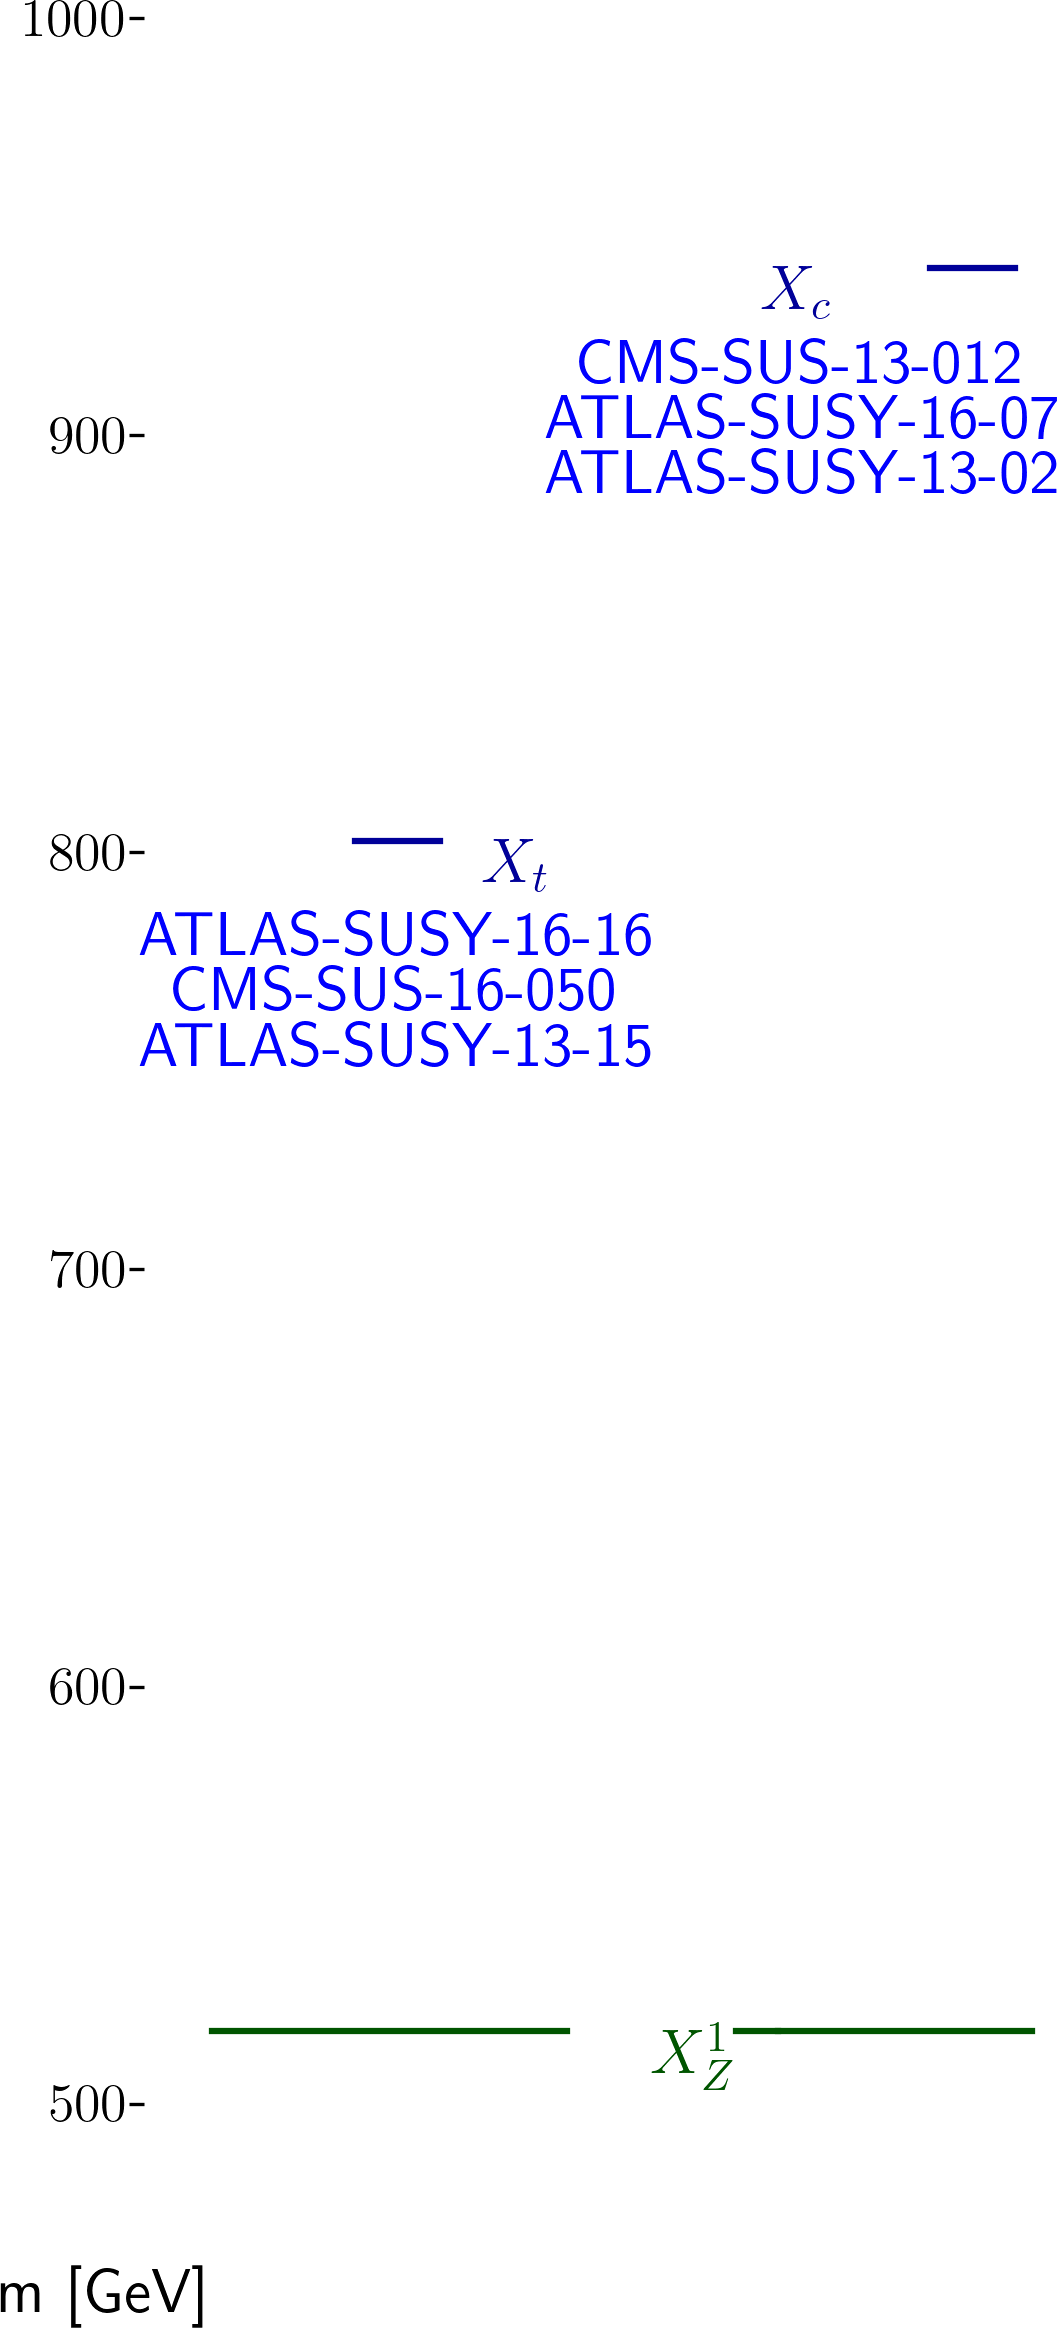
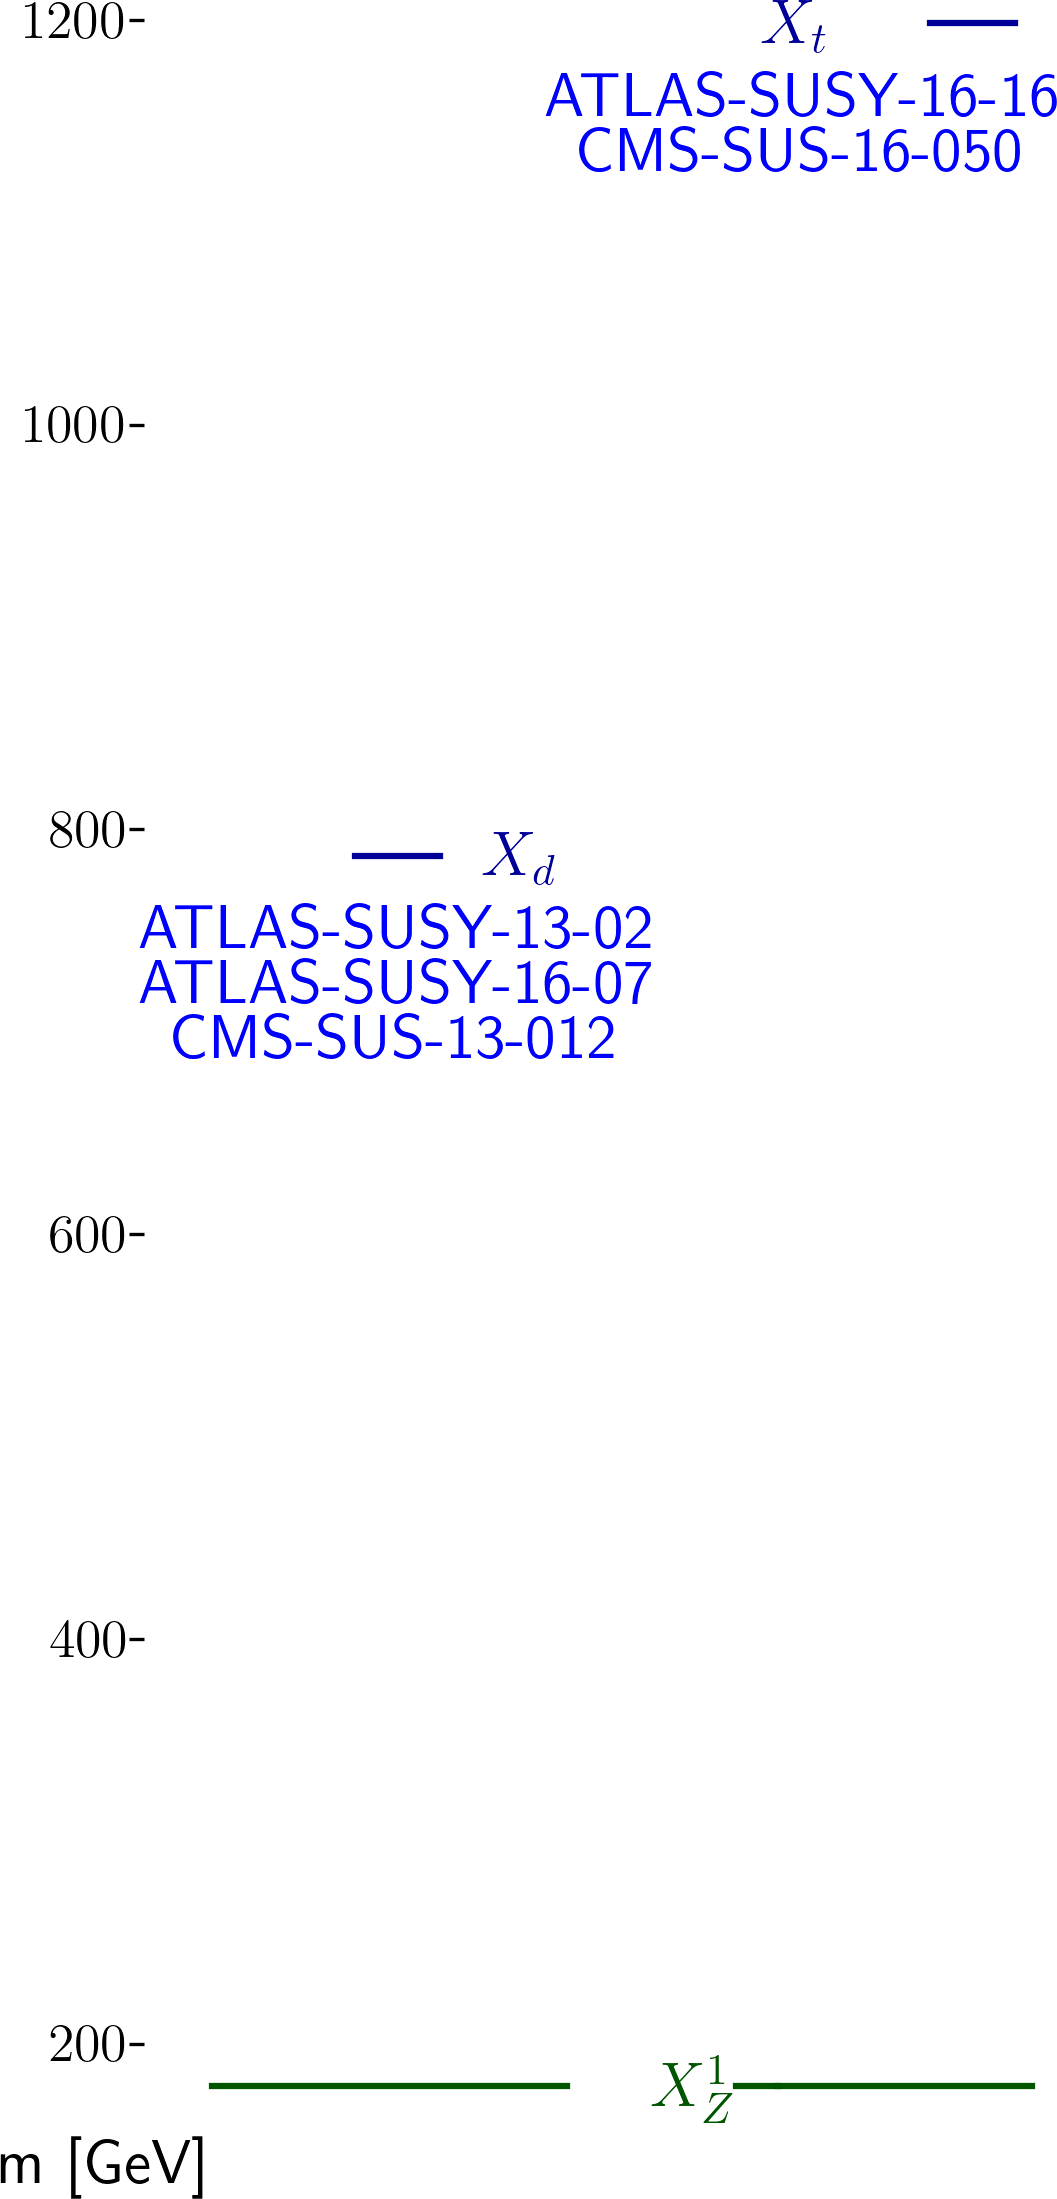
automated update by plotHiscore.py

diff --git a/protomodels/latest/index.html b/protomodels/latest/index.html
@@ -1,31 +1,30 @@
 <html>
 <body>
 <center>
-<table><td><h1>Current best protomodel: K=7.65</h1><td><img height=60px src=https://smodels.github.io/pics/banner.png></table>
+<table><td><h1>Current best protomodel: K=6.97</h1><td><img height=60px src=https://smodels.github.io/pics/banner.png></table>
 </center>
-<b><a href=./hiscore.slha>ProtoModel</a> <a href=./pmodel.py>(dict)</a> produced with <a href=https://smodels.github.io/docs/Validation124>database v1.2.4</a>, combination strategy <a href=./matrix_aggressive.png>aggressive</a> in walker 7 step 575.</b> K plots for: <a href=./M1000022.png?9864897>X<sub>Z</sub><sup>1</sup></a>, <a href=./M1000004.png?9864897>X<sub>c</sub></a>, <a href=./M1000006.png?9864897>X<sub>t</sub></a>. HPD plots for: <a href=./llhd1000004.png?9864897>X<sub>c</sub></a>, <a href=./llhd1000006.png?9864897>X<sub>t</sub></a>. SSM plots for: <a href=./ssm_-1000006_1000006.png?9864897>(x&#772;<sub>t</sub>,X<sub>t</sub>)</a><br>
+<b><a href=./hiscore.slha>ProtoModel</a> <a href=./pmodel.py>(dict)</a> produced with <a href=https://smodels.github.io/docs/Validation124>database v1.2.4</a>, combination strategy <a href=./matrix_aggressive.png>aggressive</a> in walker 46 step 450.</b> K plots for: <a href=./M1000022.png?9865031>X<sub>Z</sub><sup>1</sup></a>, <a href=./M1000006.png?9865031>X<sub>t</sub></a>, <a href=./M1000001.png?9865031>X<sub>d</sub></a>. HPD plots for: <a href=./llhd1000006.png?9865031>X<sub>t</sub></a>, <a href=./llhd1000001.png?9865031>X<sub>d</sub></a>. SSM plots for: <a href=./ssm_-1000006_1000006.png?9865031>(x&#772;<sub>t</sub>,X<sub>t</sub>)</a><br>
 <table width=80%>
 <tr><td>
-<br><b>32 predictions available. Highest r values are:</b><br><ul>
-<li><a href=http://cms-results.web.cern.ch/cms-results/public-results/publications/SUS-19-006/index.html>CMS-SUS-19-006</a>:T2 r=1.30, r<sub>exp</sub>=1.17<br>
-<li><a href=http://cms-results.web.cern.ch/cms-results/public-results/publications/SUS-16-033/index.html>CMS-SUS-16-033</a>:T2 r=1.28, r<sub>exp</sub>=0.88<br>
-<li><a href=http://cms-results.web.cern.ch/cms-results/public-results/publications/SUS-19-006/index.html>CMS-SUS-19-006</a>:T2tt r=1.19, r<sub>exp</sub>=0.76<br>
-<li><a href=http://cms-results.web.cern.ch/cms-results/public-results/publications/SUS-16-036/index.html>CMS-SUS-16-036</a>:T2 r=1.00, r<sub>exp</sub>=0.77<br>
-<li><a href=http://cms-results.web.cern.ch/cms-results/public-results/publications/SUS-16-049/index.html>CMS-SUS-16-049</a>:T2tt r=0.72, r<sub>exp</sub>=0.60<br>
+<br><b>23 predictions available. Highest r values are:</b><br><ul>
+<li><a href=http://cms-results.web.cern.ch/cms-results/public-results/publications/SUS-19-006/index.html>CMS-SUS-19-006</a>:T2tt r=1.30, r<sub>exp</sub>=1.30<br>
+<li><a href=http://cms-results.web.cern.ch/cms-results/public-results/publications/SUS-19-006/index.html>CMS-SUS-19-006</a>:T2 r=1.26, r<sub>exp</sub>=1.09<br>
+<li><a href=http://cms-results.web.cern.ch/cms-results/public-results/publications/SUS-16-033/index.html>CMS-SUS-16-033</a>:T2 r=1.12, r<sub>exp</sub>=0.80<br>
+<li><a href=http://cms-results.web.cern.ch/cms-results/public-results/publications/SUS-16-051/index.html>CMS-SUS-16-051</a>:T2tt r=0.93, r<sub>exp</sub>=0.60<br>
+<li><a href=http://cms-results.web.cern.ch/cms-results/public-results/publications/SUS-16-036/index.html>CMS-SUS-16-036</a>:T2tt r=0.88, r<sub>exp</sub>=0.69<br>
 </ul>
 <td><br><b>K values without analyses: (contribution)</b><br>
 <ul>
-<li> <a href=https://twiki.cern.ch/twiki/bin/view/CMSPublic/PhysicsResultsSUS13012>CMS-SUS-13-012</a>: 3.61 (13%)
-<li> <a href=http://cms-results.web.cern.ch/cms-results/public-results/publications/SUS-16-050/index.html>CMS-SUS-16-050</a>: 3.61 (13%)
-<li> <a href=https://atlas.web.cern.ch/Atlas/GROUPS/PHYSICS/PAPERS/SUSY-2013-02/>ATLAS-SUSY-2013-02</a>: 3.54 (13%)
-<li> <a href=https://atlas.web.cern.ch/Atlas/GROUPS/PHYSICS/PAPERS/SUSY-2013-15/>ATLAS-SUSY-2013-15</a>: 3.20 (14%)
-<li> <a href=https://atlas.web.cern.ch/Atlas/GROUPS/PHYSICS/PAPERS/SUSY-2016-16/>ATLAS-SUSY-2016-16</a>: 1.67 (19%)
-<li> <a href=https://atlas.web.cern.ch/Atlas/GROUPS/PHYSICS/PAPERS/SUSY-2016-07/>ATLAS-SUSY-2016-07</a>: -0.97 (28%)
-<td><img width=600px src=./texdoc.png?1602864897>
-<br><font size=-1>Last updated: Fri Oct 16 18:14:57 2020</font>
+<li> <a href=http://cms-results.web.cern.ch/cms-results/public-results/publications/SUS-16-050/index.html>CMS-SUS-16-050</a>: 3.20 (15%)
+<li> <a href=https://twiki.cern.ch/twiki/bin/view/CMSPublic/PhysicsResultsSUS13012>CMS-SUS-13-012</a>: 3.20 (15%)
+<li> <a href=https://atlas.web.cern.ch/Atlas/GROUPS/PHYSICS/PAPERS/SUSY-2013-02/>ATLAS-SUSY-2013-02</a>: 3.12 (15%)
+<li> <a href=https://atlas.web.cern.ch/Atlas/GROUPS/PHYSICS/PAPERS/SUSY-2016-16/>ATLAS-SUSY-2016-16</a>: 1.20 (23%)
+<li> <a href=https://atlas.web.cern.ch/Atlas/GROUPS/PHYSICS/PAPERS/SUSY-2016-07/>ATLAS-SUSY-2016-07</a>: -0.80 (31%)
+<td><img width=600px src=./texdoc.png?1602865031>
+<br><font size=-1>Last updated: Fri Oct 16 18:17:11 2020</font>
 </table><table style="width:80%">
-<td width=45%><img height=580px src=./ruler.png?1602864897><td width=55%><img height=380px src=./decays.png?1602864897>
-<font size=-3><iframe type="text/html" height="220px" width="100%s" frameborder="0" src="./rawnumbers.html?1602864897"></iframe></font>
+<td width=45%><img height=580px src=./ruler.png?1602865031><td width=55%><img height=380px src=./decays.png?1602865031>
+<font size=-3><iframe type="text/html" height="220px" width="100%s" frameborder="0" src="./rawnumbers.html?1602865031"></iframe></font>
 </table>
 </body>
 </html>

diff --git a/protomodels/latest/rawnumbers.html b/protomodels/latest/rawnumbers.html
@@ -1,10 +1,9 @@
 <table>
 <tr><th>Analysis Name</th><th>Type</th><th>Dataset</th><th>Topos</th><th>Observed</th><th>Expected</th><th>Approx &sigma;</th><th>Particles</th>
 </tr>
-<tr><td><a href=https://atlas.web.cern.ch/Atlas/GROUPS/PHYSICS/PAPERS/SUSY-2013-02/>ATLAS-SUSY-2013-02</a></td><td>em</td> <td>SR6jtp</td><td>T2</td><td>6</td><td>4.9 +/- 1.6</td><td style="text-align:right">0.4 &sigma;</td><td style="text-align:right">X<sub>c</sub></td></tr>
-<tr><td><a href=https://atlas.web.cern.ch/Atlas/GROUPS/PHYSICS/PAPERS/SUSY-2013-15/>ATLAS-SUSY-2013-15</a></td><td>em</td> <td>tNboost</td><td>T2tt</td><td>5</td><td>3.3 +/- 0.7</td><td style="text-align:right">0.9 &sigma;</td><td style="text-align:right">X<sub>t</sub></td></tr>
-<tr><td><a href=https://atlas.web.cern.ch/Atlas/GROUPS/PHYSICS/PAPERS/SUSY-2016-07/>ATLAS-SUSY-2016-07</a></td><td>em</td> <td>2j_Meff_1200</td><td>T2</td><td>611</td><td>526 +/- 31</td><td style="text-align:right">2.2 &sigma;</td><td style="text-align:right">X<sub>c</sub></td></tr>
-<tr><td><a href=https://atlas.web.cern.ch/Atlas/GROUPS/PHYSICS/PAPERS/SUSY-2016-16/>ATLAS-SUSY-2016-16</a></td><td>em</td> <td>tN_med</td><td>T2tt</td><td>50</td><td>36.3 +/- 6.6</td><td style="text-align:right">1.5 &sigma;</td><td style="text-align:right">X<sub>t</sub></td></tr>
-<tr><td><a href=https://twiki.cern.ch/twiki/bin/view/CMSPublic/PhysicsResultsSUS13012>CMS-SUS-13-012</a></td><td>ul</td> <td>-</td><td>T2</td><td> 41.4 fb </td><td> 25.5 fb</td><td style="text-align:right">1.2 &sigma;</td><td style="text-align:right">X<sub>c</sub></td></tr>
-<tr><td><a href=http://cms-results.web.cern.ch/cms-results/public-results/publications/SUS-16-050/index.html>CMS-SUS-16-050</a></td><td>ul</td> <td>-</td><td>T2tt</td><td> 131.7 fb </td><td> 57.4 fb</td><td style="text-align:right">2.5 &sigma;</td><td style="text-align:right">X<sub>t</sub></td></tr>
+<tr><td><a href=https://atlas.web.cern.ch/Atlas/GROUPS/PHYSICS/PAPERS/SUSY-2013-02/>ATLAS-SUSY-2013-02</a></td><td>em</td> <td>SR6jtp</td><td>T2</td><td>6</td><td>4.9 +/- 1.6</td><td style="text-align:right">0.4 &sigma;</td><td style="text-align:right">X<sub>d</sub></td></tr>
+<tr><td><a href=https://atlas.web.cern.ch/Atlas/GROUPS/PHYSICS/PAPERS/SUSY-2016-07/>ATLAS-SUSY-2016-07</a></td><td>em</td> <td>2j_Meff_1200</td><td>T2</td><td>611</td><td>526 +/- 31</td><td style="text-align:right">2.2 &sigma;</td><td style="text-align:right">X<sub>d</sub></td></tr>
+<tr><td><a href=https://atlas.web.cern.ch/Atlas/GROUPS/PHYSICS/PAPERS/SUSY-2016-16/>ATLAS-SUSY-2016-16</a></td><td>em</td> <td>tN_high</td><td>T2tt</td><td>8</td><td>3.8 +/- 1</td><td style="text-align:right">1.9 &sigma;</td><td style="text-align:right">X<sub>t</sub></td></tr>
+<tr><td><a href=https://twiki.cern.ch/twiki/bin/view/CMSPublic/PhysicsResultsSUS13012>CMS-SUS-13-012</a></td><td>ul</td> <td>-</td><td>T2</td><td> 23.8 fb </td><td> 14.1 fb</td><td style="text-align:right">1.3 &sigma;</td><td style="text-align:right">X<sub>d</sub></td></tr>
+<tr><td><a href=http://cms-results.web.cern.ch/cms-results/public-results/publications/SUS-16-050/index.html>CMS-SUS-16-050</a></td><td>ul</td> <td>-</td><td>T2tt</td><td> 4.4 fb </td><td> 2.4 fb</td><td style="text-align:right">1.6 &sigma;</td><td style="text-align:right">X<sub>t</sub></td></tr>
 </table>

diff --git a/protomodels/latest/pmodel.py b/protomodels/latest/pmodel.py
@@ -1,1 +1,1 @@
-{'masses': {1000022: 507.27, 1000004: 930.037, 1000006: 792.759}, 'ssmultipliers': {(1000022, 1000022): 0.0, (1000004, 1000004): 0.0, (-1000004, 1000004): 2.662, (-1000004, -1000004): 2.662, (1000004, 1000022): 2.662, (-1000004, 1000022): 2.662, (1000006, 1000006): 1.001, (-1000006, 1000006): 1.001, (-1000006, -1000006): 1.001, (1000006, 1000022): 1.001, (-1000006, 1000022): 1.001, (1000004, 1000006): 1.001, (-1000006, 1000004): 1.001, (-1000004, 1000006): 1.001, (-1000006, -1000004): 1.001}, 'decays': {1000022: {}, 1000004: {(1000022, 4): 1.0}, 1000006: {(1000022, 6): 1.0}}, 'timestamp': 'Fri Oct 16 18:14:24 2020', 'Z': 3.343, 'K': 7.654, 'walkerid': 7, 'step': 575, 'codever': '1.0', 'dbver': '1.2.4'}
+{'masses': {1000022: 169.158, 1000001: 777.144, 1000006: 1188.473}, 'ssmultipliers': {(1000022, 1000022): 0.166, (1000001, 1000001): 1.139, (-1000001, 1000001): 0.533, (-1000001, -1000001): 0.533, (1000001, 1000022): 0.533, (-1000001, 1000022): 0.533, (1000006, 1000006): 1.515, (-1000006, 1000006): 1.515, (-1000006, -1000006): 1.075, (1000006, 1000022): 1.515, (-1000006, 1000022): 1.515, (1000001, 1000006): 1.303, (-1000006, 1000001): 1.303, (-1000001, 1000006): 1.303, (-1000006, -1000001): 1.303}, 'decays': {1000022: {}, 1000001: {(1000022, 1): 1.0}, 1000006: {(1000022, 6): 1.0}}, 'timestamp': 'Fri Oct 16 18:16:39 2020', 'Z': 3.243, 'K': 6.969, 'walkerid': 46, 'step': 450, 'codever': '1.0', 'dbver': '1.2.4'}
